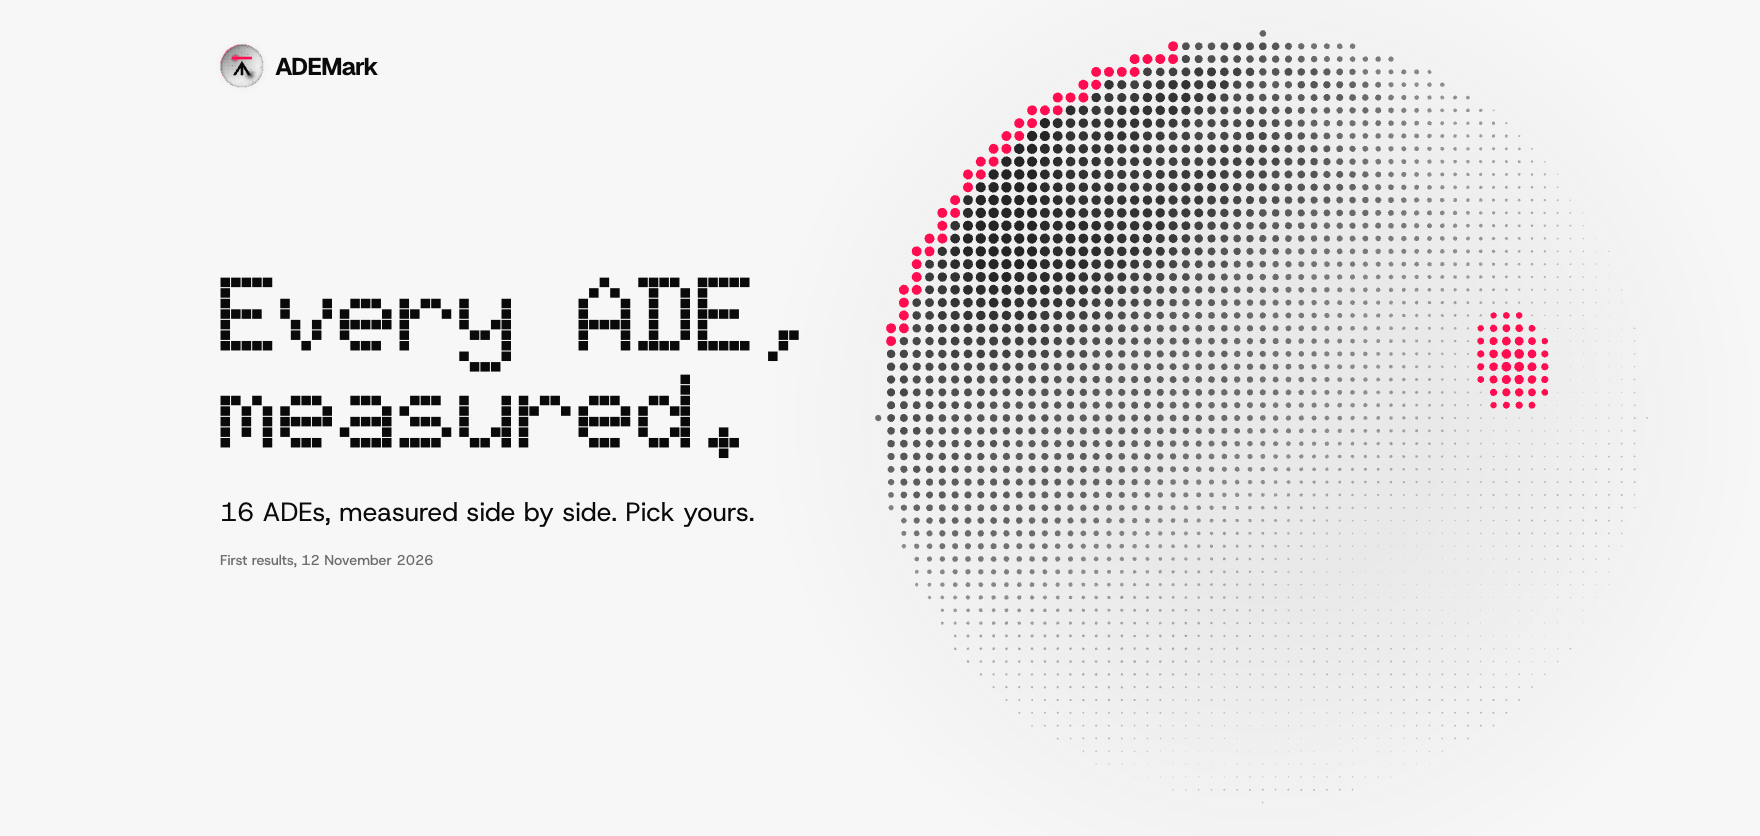
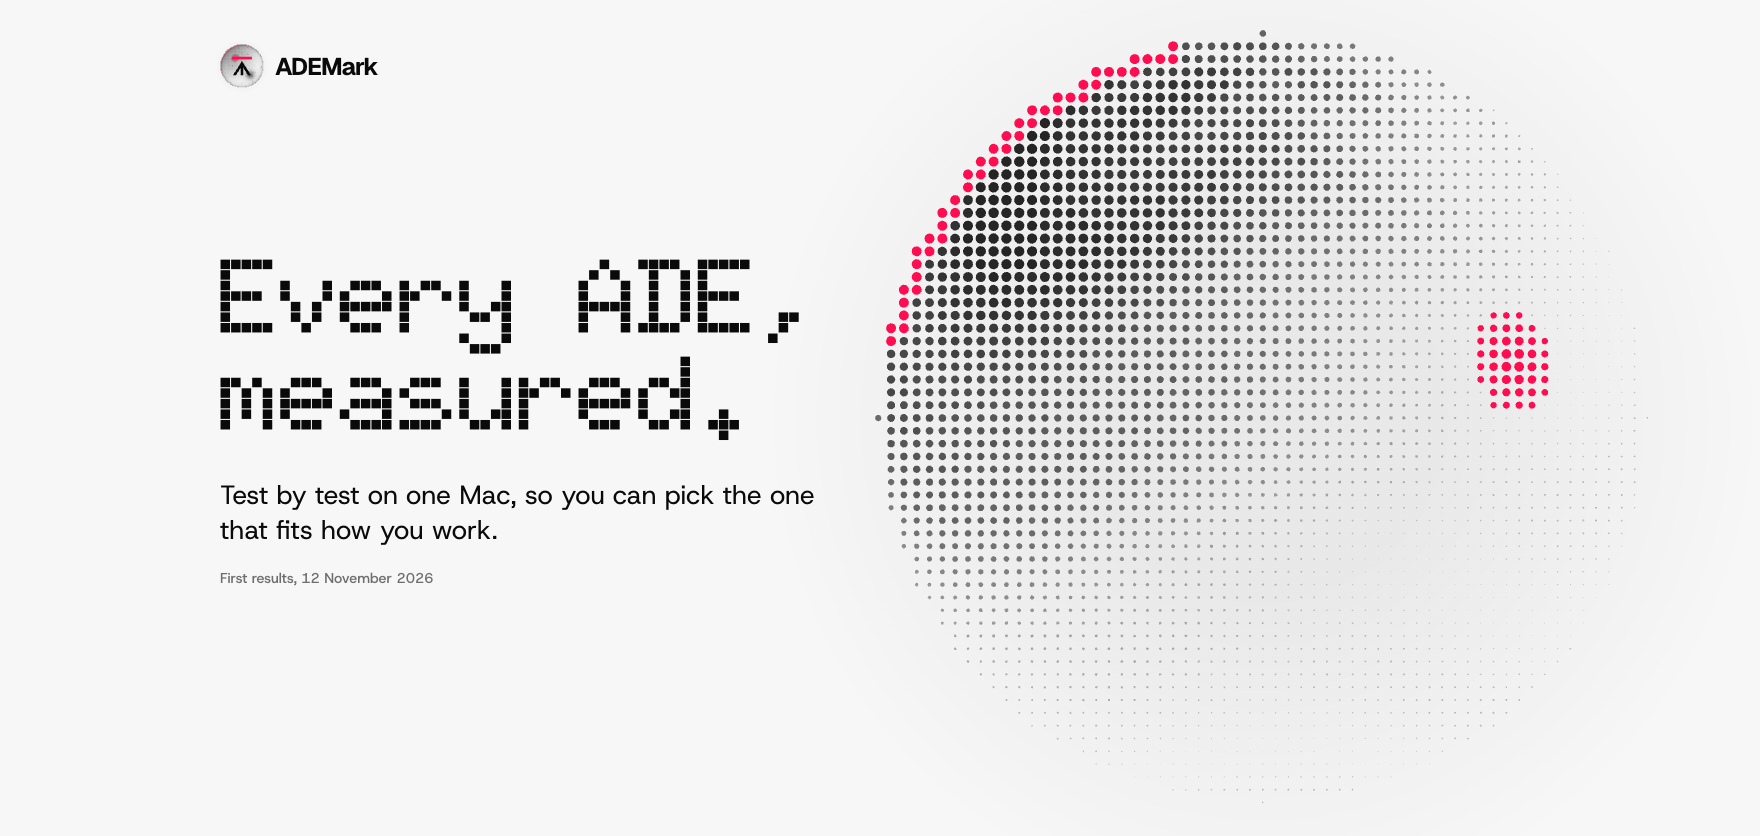
Share card from the results page, README images match the live site

Changed region(s): [[0.125, 0.311, 0.4688, 0.5598], [0.125, 0.5598, 0.4688, 0.7153]]

diff --git a/README.md b/README.md
@@ -1,7 +1,7 @@
 <a href="https://ademark.dev">
   <picture>
     <source media="(prefers-color-scheme: dark)" srcset=".github/readme/banner-dark.png">
-    <img alt="ADEMark. Every ADE, measured. 16 ADEs, measured side by side. Pick yours." src=".github/readme/banner-light.png">
+    <img alt="ADEMark. Every ADE, measured. Test by test on one Mac, so you can pick the one that fits how you work." src=".github/readme/banner-light.png">
   </picture>
 </a>
 
